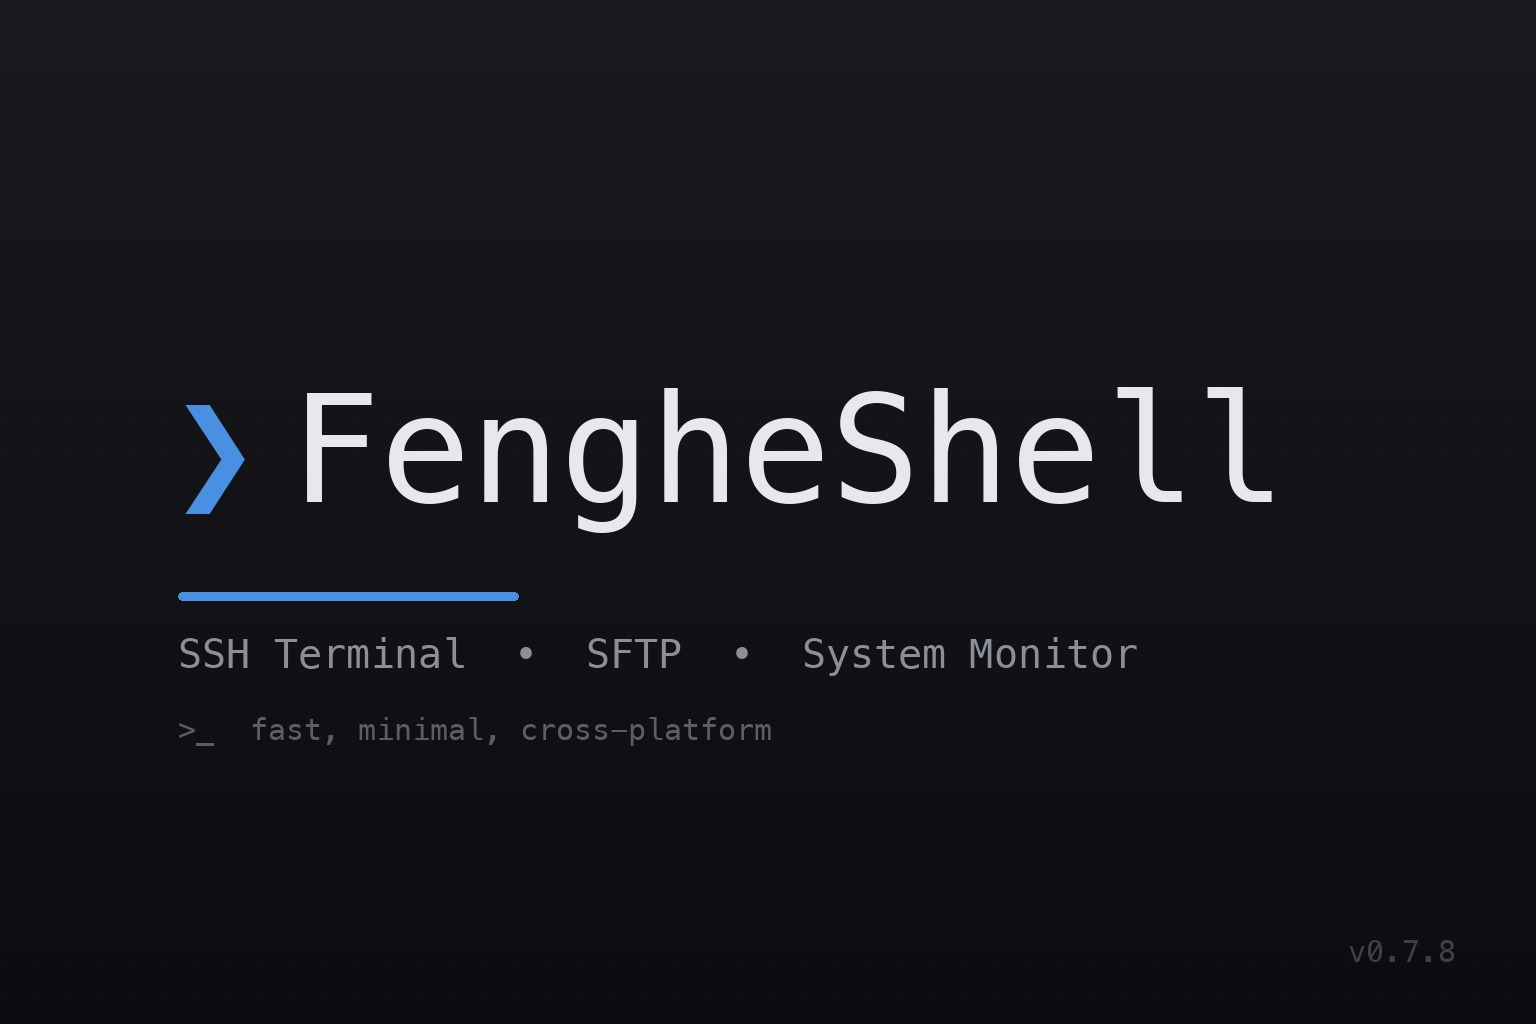
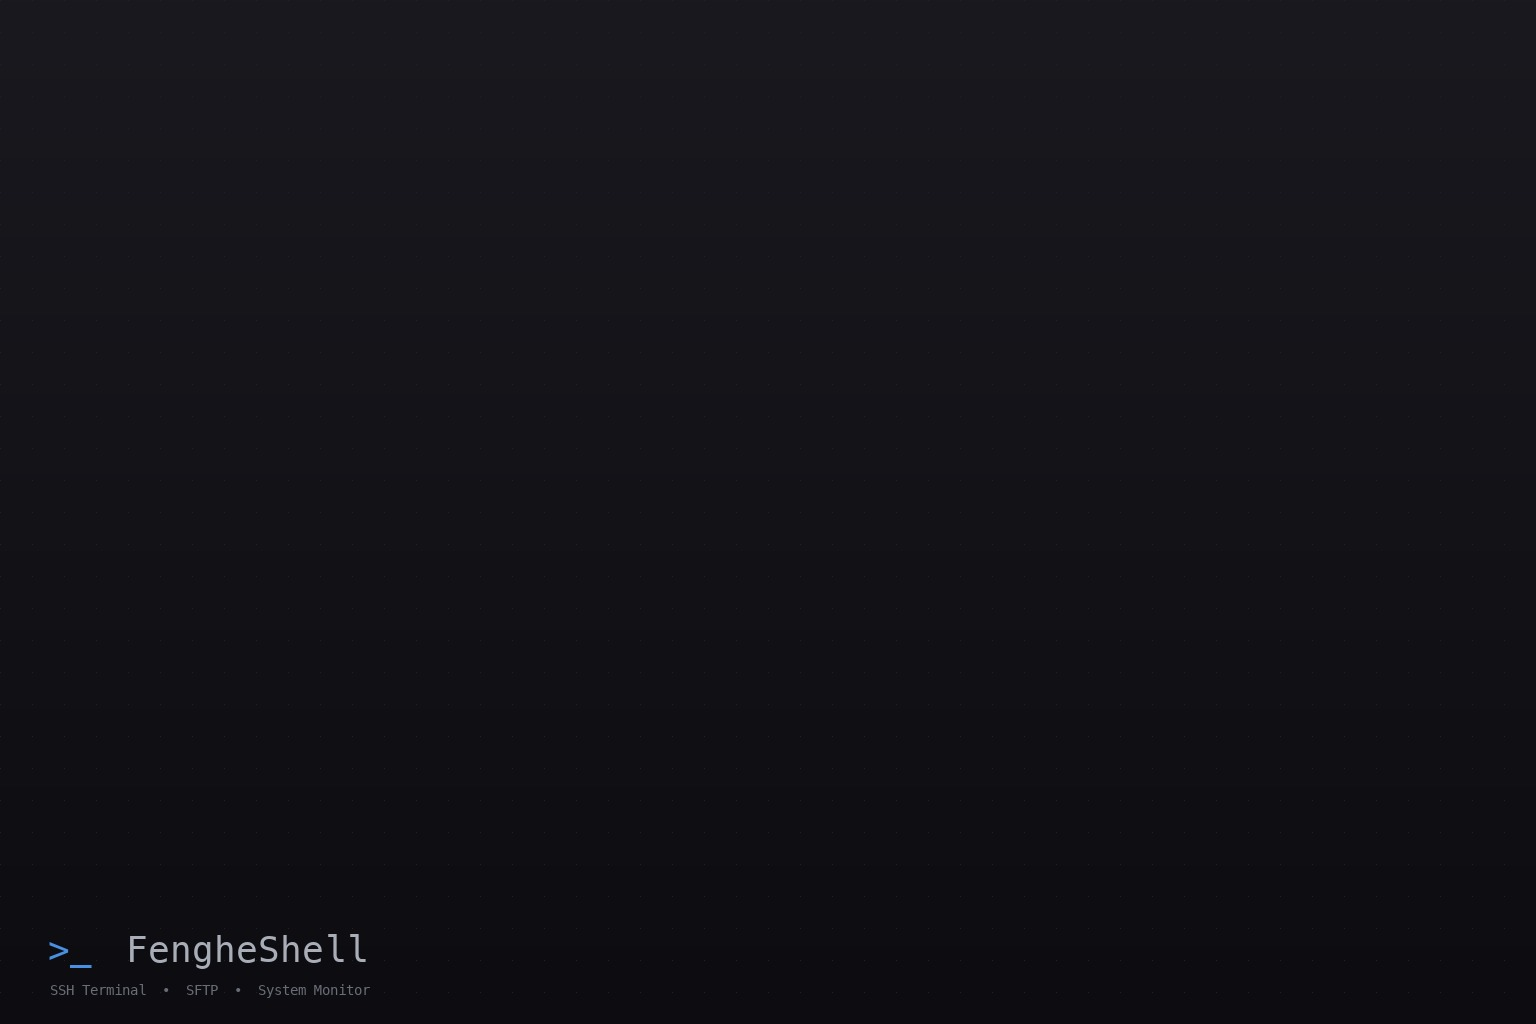
fix(ai): restore user bubbles, fail fast on missing model, tone down wallpaper
- ui/ai_panel.slint: drop vertical-stretch:0 on message rows (a plain
  Rectangle has 0 preferred height, so rows collapsed and the user question
  vanished). Keep alignment:start on the list to prevent the old giant bubble.
- src/app/ai_callbacks.rs: validate that an API key is set (except local
  Ollama) before spawning a round; otherwise show an error notice instead of
  spinning forever with no configured model.
- crates/ai-copilot/src/llm/*: add a 30s connect timeout to the reqwest
  clients so an unreachable endpoint fails instead of hanging.
- ui/ai_panel.slint: focus-aware input border, placeholder text, and a red
  stop button; ui/terminal_view.slint: stronger command-bar border.
- assets/ms.jpg: shrink the watermark to a small, muted corner mark (was a
  giant wordmark bleeding through panels).

diff --git a/src/app/ai_callbacks.rs b/src/app/ai_callbacks.rs
@@ -590,6 +590,21 @@ fn ask_question(
     );
     // 会话级模式（F3）：这一轮按会话自己的 ask/agent 跑，不看全局默认。
     cfg.mode = mode;
+    // 前置校验：没有 API Key（本地 Ollama 除外）就不要进入「思考中」空转，
+    // 直接给一条可执行的错误提示。
+    if cfg.api_key.trim().is_empty() && cfg.protocol != "ollama" {
+        push_notice(
+            &conversations,
+            &win.as_weak(),
+            conversation_id,
+            ROLE_ERROR,
+            crate::i18n::t(
+                "尚未配置模型 / API Key。请点击右上角「更多 → 模型设置」先配置，再开始对话。",
+                "No model or API key configured. Open More → LLM settings first, then ask.",
+            ),
+        );
+        return;
+    }
     let local = snapshot_for_anchor(core, anchor.as_deref());
     spawn_ask(
         core.runtime.handle(),

diff --git a/crates/ai-copilot/src/llm/protocol.rs b/crates/ai-copilot/src/llm/protocol.rs
@@ -33,7 +33,10 @@ impl OpenAiCompletionsClient {
         Self {
             api_key,
             chat_endpoint: normalize_chat_endpoint(endpoint),
-            http: reqwest::Client::new(),
+            http: reqwest::Client::builder()
+                .connect_timeout(std::time::Duration::from_secs(30))
+                .build()
+                .unwrap_or_default(),
         }
     }
 }

diff --git a/crates/ai-copilot/src/llm/deepseek.rs b/crates/ai-copilot/src/llm/deepseek.rs
@@ -42,7 +42,10 @@ impl DeepSeekClient {
         Self {
             api_key,
             chat_endpoint,
-            http: reqwest::Client::new(),
+            http: reqwest::Client::builder()
+                .connect_timeout(std::time::Duration::from_secs(30))
+                .build()
+                .unwrap_or_default(),
         }
     }
 }

diff --git a/crates/ai-copilot/src/llm/anthropic.rs b/crates/ai-copilot/src/llm/anthropic.rs
@@ -39,7 +39,10 @@ impl AnthropicClient {
         Self {
             api_key,
             endpoint,
-            http: reqwest::Client::new(),
+            http: reqwest::Client::builder()
+                .connect_timeout(std::time::Duration::from_secs(30))
+                .build()
+                .unwrap_or_default(),
         }
     }
 }
